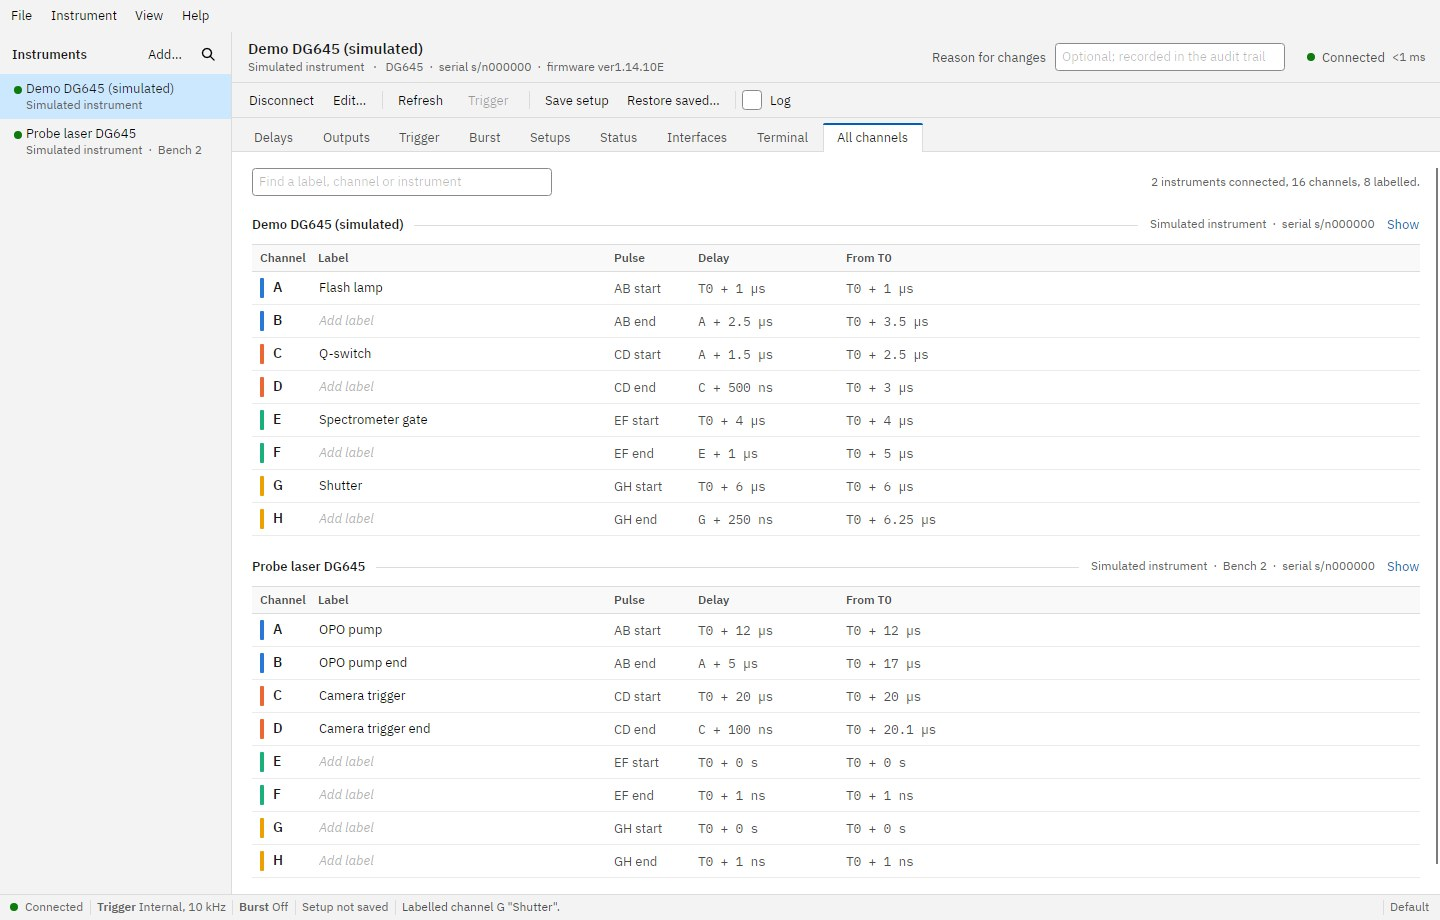
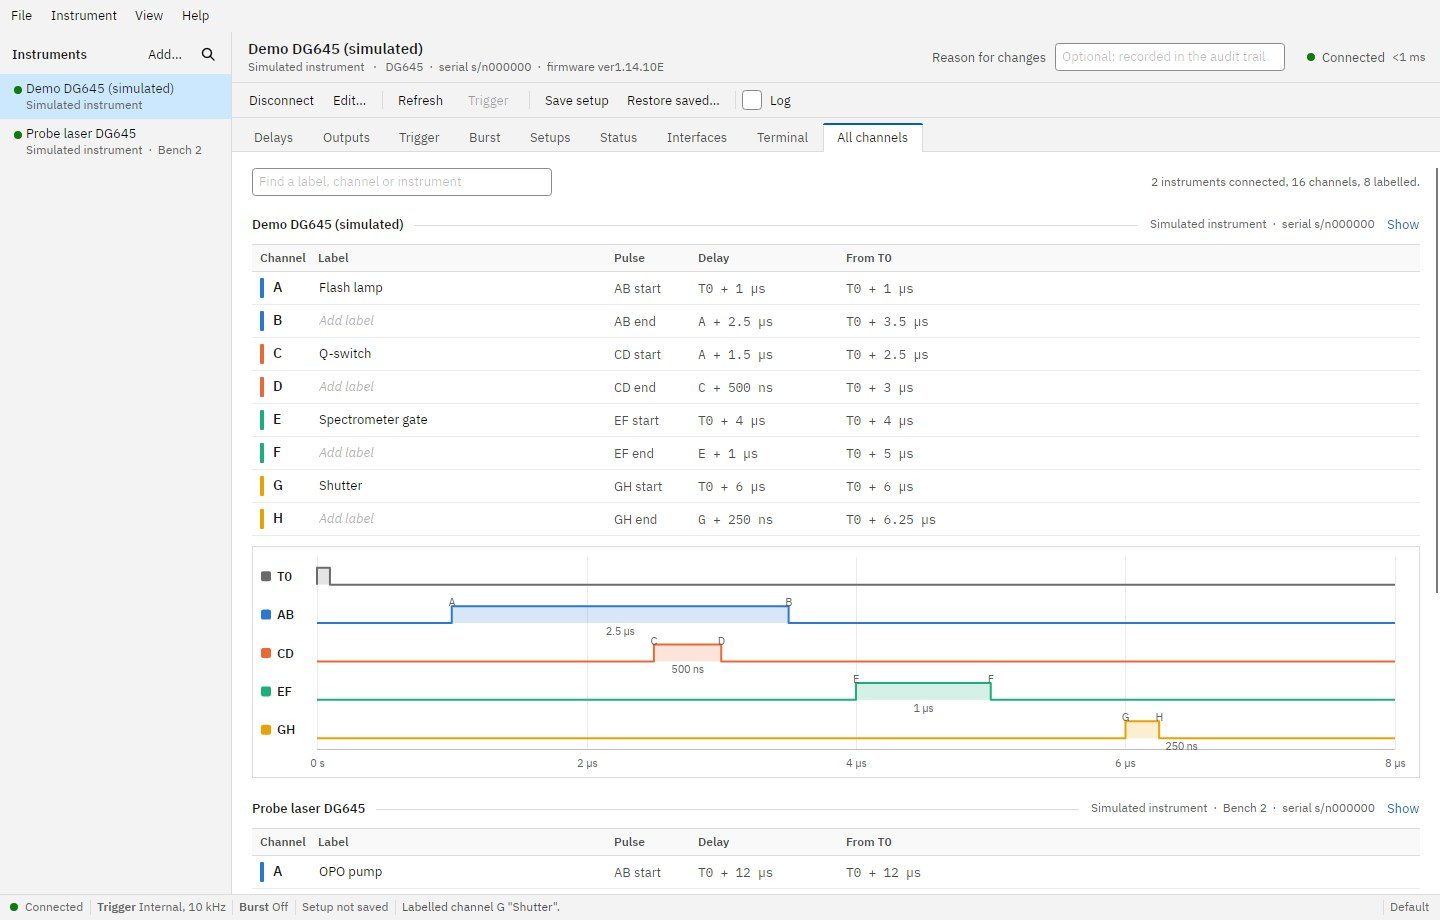
Show each instrument's timing diagram on the All channels page
The same diagram as on the Delays page, under each instrument's channel table. Its hover
read-out now names labelled edges, e.g. "A (Flash lamp) = T0 + 1 µs", on both pages.

Claude-Session: https://claude.ai/code/session_01VGZUZQYWU1eQEvbGHtT2sj

Changed region(s): [[0.1562, 0.6087, 1.0, 0.9739], [0.9062, 0.8217, 1.0, 0.8826], [0.75, 0.8522, 0.875, 0.8826]]

diff --git a/src/StanfordController.Presentation/ViewModels/InstrumentSessionViewModel.cs b/src/StanfordController.Presentation/ViewModels/InstrumentSessionViewModel.cs
@@ -16,6 +16,11 @@ namespace StanfordController.Presentation.ViewModels;
 /// <summary>One pulse for the timing diagram, in seconds from T0.</summary>
 public sealed record PulseTiming(string Output, string StartChannel, string EndChannel, double? Start, double? End, bool Positive)
 {
+    /// <summary>The labels of the start and end channels, for the hover read-out; empty if they have none.</summary>
+    public string StartLabel { get; init; } = string.Empty;
+
+    public string EndLabel { get; init; } = string.Empty;
+
     public bool IsValid => Start is not null && End is not null && End >= Start;
 
     public double Width => IsValid ? End!.Value - Start!.Value : 0;
@@ -491,6 +496,7 @@ public sealed class InstrumentSessionViewModel : ObservableObject, IInstrumentCo
         }
 
         Owner?.SaveProfile();
+        RecomputeTiming();
         Audit(AuditActions.ChannelLabelled, $"Channel {channel.Channel} label", Blank(change.Before), Blank(change.After),
             "Saved in the configuration");
         SetStatus(change.After.Length == 0
@@ -585,7 +591,11 @@ public sealed class InstrumentSessionViewModel : ObservableObject, IInstrumentCo
             var name = output.Output.ToString();
             var start = Enum.Parse<Dg645Channel>(name[..1]);
             var end = Enum.Parse<Dg645Channel>(name[1..]);
-            pulses.Add(new PulseTiming(name, start.ToString(), end.ToString(), absolute[start], absolute[end], output.IsPositive));
+            pulses.Add(new PulseTiming(name, start.ToString(), end.ToString(), absolute[start], absolute[end], output.IsPositive)
+            {
+                StartLabel = Channels.First(c => c.Channel == start).ChannelLabel,
+                EndLabel = Channels.First(c => c.Channel == end).ChannelLabel,
+            });
         }
 
         Timing = pulses;

diff --git a/src/StanfordController.App/Controls/TimingDiagram.cs b/src/StanfordController.App/Controls/TimingDiagram.cs
@@ -321,8 +321,8 @@ public sealed class TimingDiagram : Control
 
                 if (pulse.IsValid)
                 {
-                    lines.Add(($"{pulse.Output}: {pulse.StartChannel} = T0 + {EngineeringUnits.Format(pulse.Start!.Value, Quantity.Time)}", text));
-                    lines.Add(($"{pulse.EndChannel} = T0 + {EngineeringUnits.Format(pulse.End!.Value, Quantity.Time)}", text));
+                    lines.Add(($"{pulse.Output}: {Labelled(pulse.StartChannel, pulse.StartLabel)} = T0 + {EngineeringUnits.Format(pulse.Start!.Value, Quantity.Time)}", text));
+                    lines.Add(($"{Labelled(pulse.EndChannel, pulse.EndLabel)} = T0 + {EngineeringUnits.Format(pulse.End!.Value, Quantity.Time)}", text));
                     lines.Add(($"width {EngineeringUnits.Format(pulse.Width, Quantity.Time)} · {(pulse.Positive ? "positive" : "negative")}", muted));
                 }
             }
@@ -365,6 +365,9 @@ public sealed class TimingDiagram : Control
         var nice = fraction <= 1 ? 1 : fraction <= 2 ? 2 : fraction <= 5 ? 5 : 10;
         return nice * magnitude;
     }
+
+    /// <summary>e.g. "A (Flash lamp)", or just "A" for a channel without a label.</summary>
+    private static string Labelled(string channel, string label) => label.Length == 0 ? channel : $"{channel} ({label})";
 
     private static FormattedText Text(string value, Typeface face, double size, IBrush brush) =>
         new(value, CultureInfo.InvariantCulture, FlowDirection.LeftToRight, face, size, brush);

diff --git a/src/StanfordController.App/SmokeTest.cs b/src/StanfordController.App/SmokeTest.cs
@@ -516,7 +516,23 @@ internal sealed class SmokeTest
             Capture(_window, "94-all-channels" + (theme == AppTheme.Dark ? "-dark" : string.Empty));
         }
 
+        // Each instrument's timing diagram under its channels, with the hover read-out naming the labelled edges.
         _viewModel.Theme = AppTheme.Light;
+        await IdleAsync();
+        var overviewPage = tabs.SelectedContent as Control ?? throw new InvalidOperationException("The All channels page is not on show.");
+        var diagrams = overviewPage.GetVisualDescendants().OfType<TimingDiagram>().ToList();
+        Check(diagrams.Count == 2, $"All channels should show a timing diagram for each of the 2 instruments, not {diagrams.Count}.");
+        if (overviewPage.GetVisualDescendants().OfType<ScrollViewer>().FirstOrDefault() is { } viewer && diagrams.Count == 2)
+        {
+            viewer.Offset = new Vector(0, viewer.Extent.Height);
+            await IdleAsync();
+            diagrams[1].SimulateHover(new Point(diagrams[1].Bounds.Width * 0.5, diagrams[1].Bounds.Height * 0.32));
+            await IdleAsync();
+            Capture(_window, "94-all-channels-timing");
+            diagrams[1].SimulateHover(null);
+            viewer.Offset = default;
+        }
+
         overview.Filter = "camera";
         await IdleAsync();
         Check(!overview.Groups[0].IsVisible && overview.Groups[1].VisibleChannels.Count == 2,

diff --git a/tests/StanfordController.Tests/ChannelLabelTests.cs b/tests/StanfordController.Tests/ChannelLabelTests.cs
@@ -57,6 +57,20 @@ public sealed class ChannelLabelTests : IDisposable
     }
 
     [Fact]
+    public async Task TheTimingDiagramNamesLabelledEdges()
+    {
+        var main = await CreateMainAsync();
+        var item = main.AddProfile(new InstrumentProfile { Name = "Pump", IsSimulator = true });
+        await item.ConnectAsync();
+
+        Label(item.Session!, Dg645Channel.A, "Flash lamp");
+
+        var ab = item.Session!.Timing.Single(p => p.Output == "AB");
+        Assert.Equal("Flash lamp", ab.StartLabel);
+        Assert.Equal(string.Empty, ab.EndLabel);
+    }
+
+    [Fact]
     public async Task ClearingALabelRemovesItAndEscapePutsTheOldOneBack()
     {
         var main = await CreateMainAsync();

diff --git a/docs/USER-GUIDE.md b/docs/USER-GUIDE.md
@@ -430,6 +430,7 @@ Commands sent from the Terminal can change settings shown on other pages; when t
 The **All channels** page lists the eight delay channels of every connected instrument, grouped by instrument in the order of the instrument list, with each channel's label, the pulse it belongs to, its delay and its time from T0. It is the same page whichever instrument is selected, and it follows the instruments as they connect, disconnect and change. Use it to find which unit and channel drives a piece of equipment before changing anything.
 
 - Type in the search box to show only matching channels. Tempo looks in the labels, the channel letter (`A`), the output (`AB`) and the instrument's name and location; several words must all match, so `probe gh` finds channels G and H of the instrument called Probe. Esc clears the search.
+- Under each instrument's channels is its [timing diagram](#timing-diagram), the same as on its Delays page, so the pulses of every unit can be compared on one page. Hovering a pulse shows its edges with their labels, here and on the Delays page.
 - Labels can be typed here as well as on the Delays page.
 - **Show** beside an instrument selects it in the instrument list.
 
